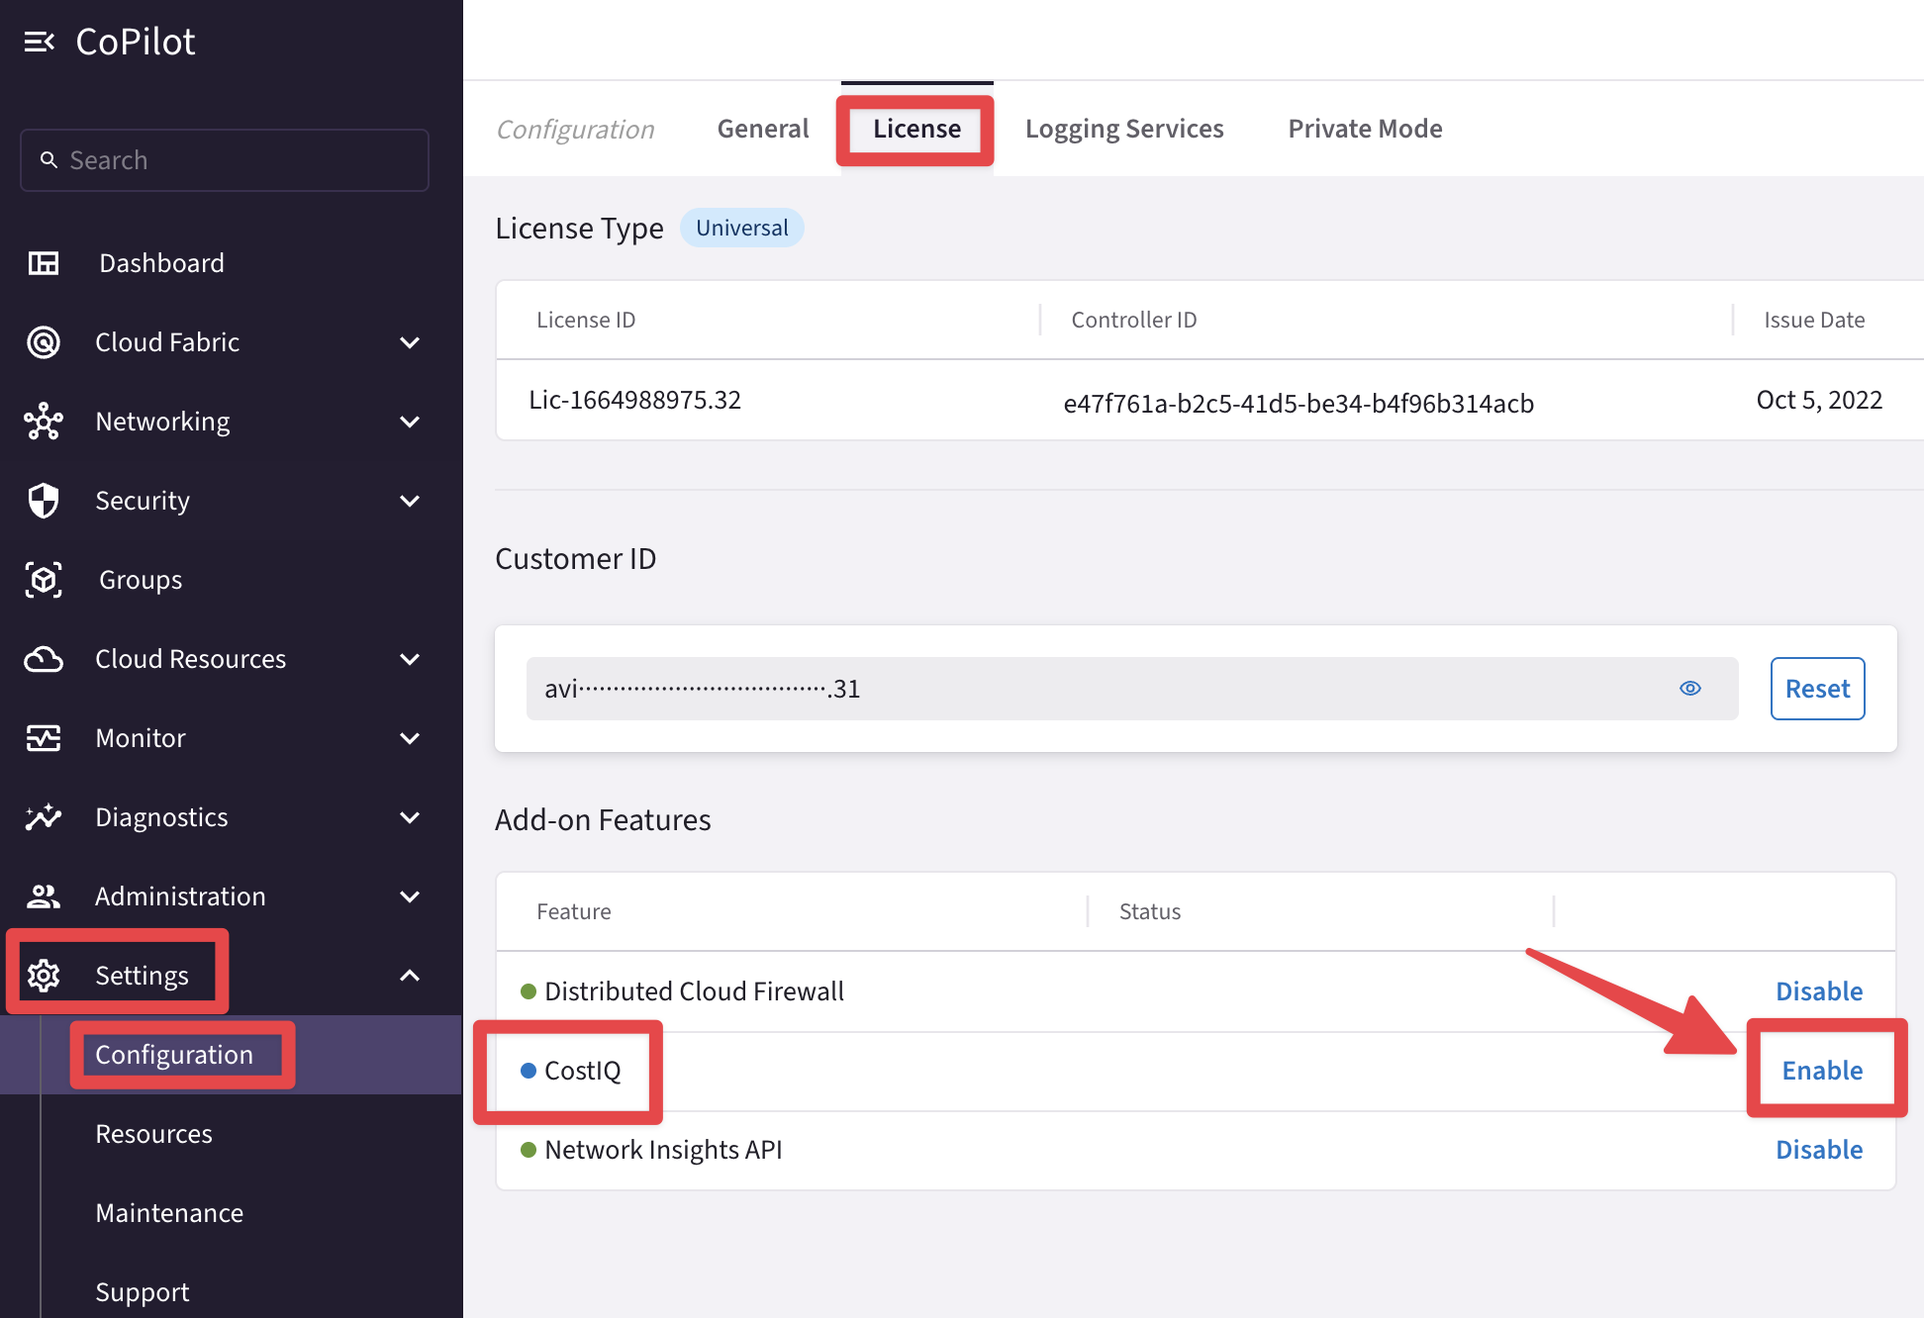
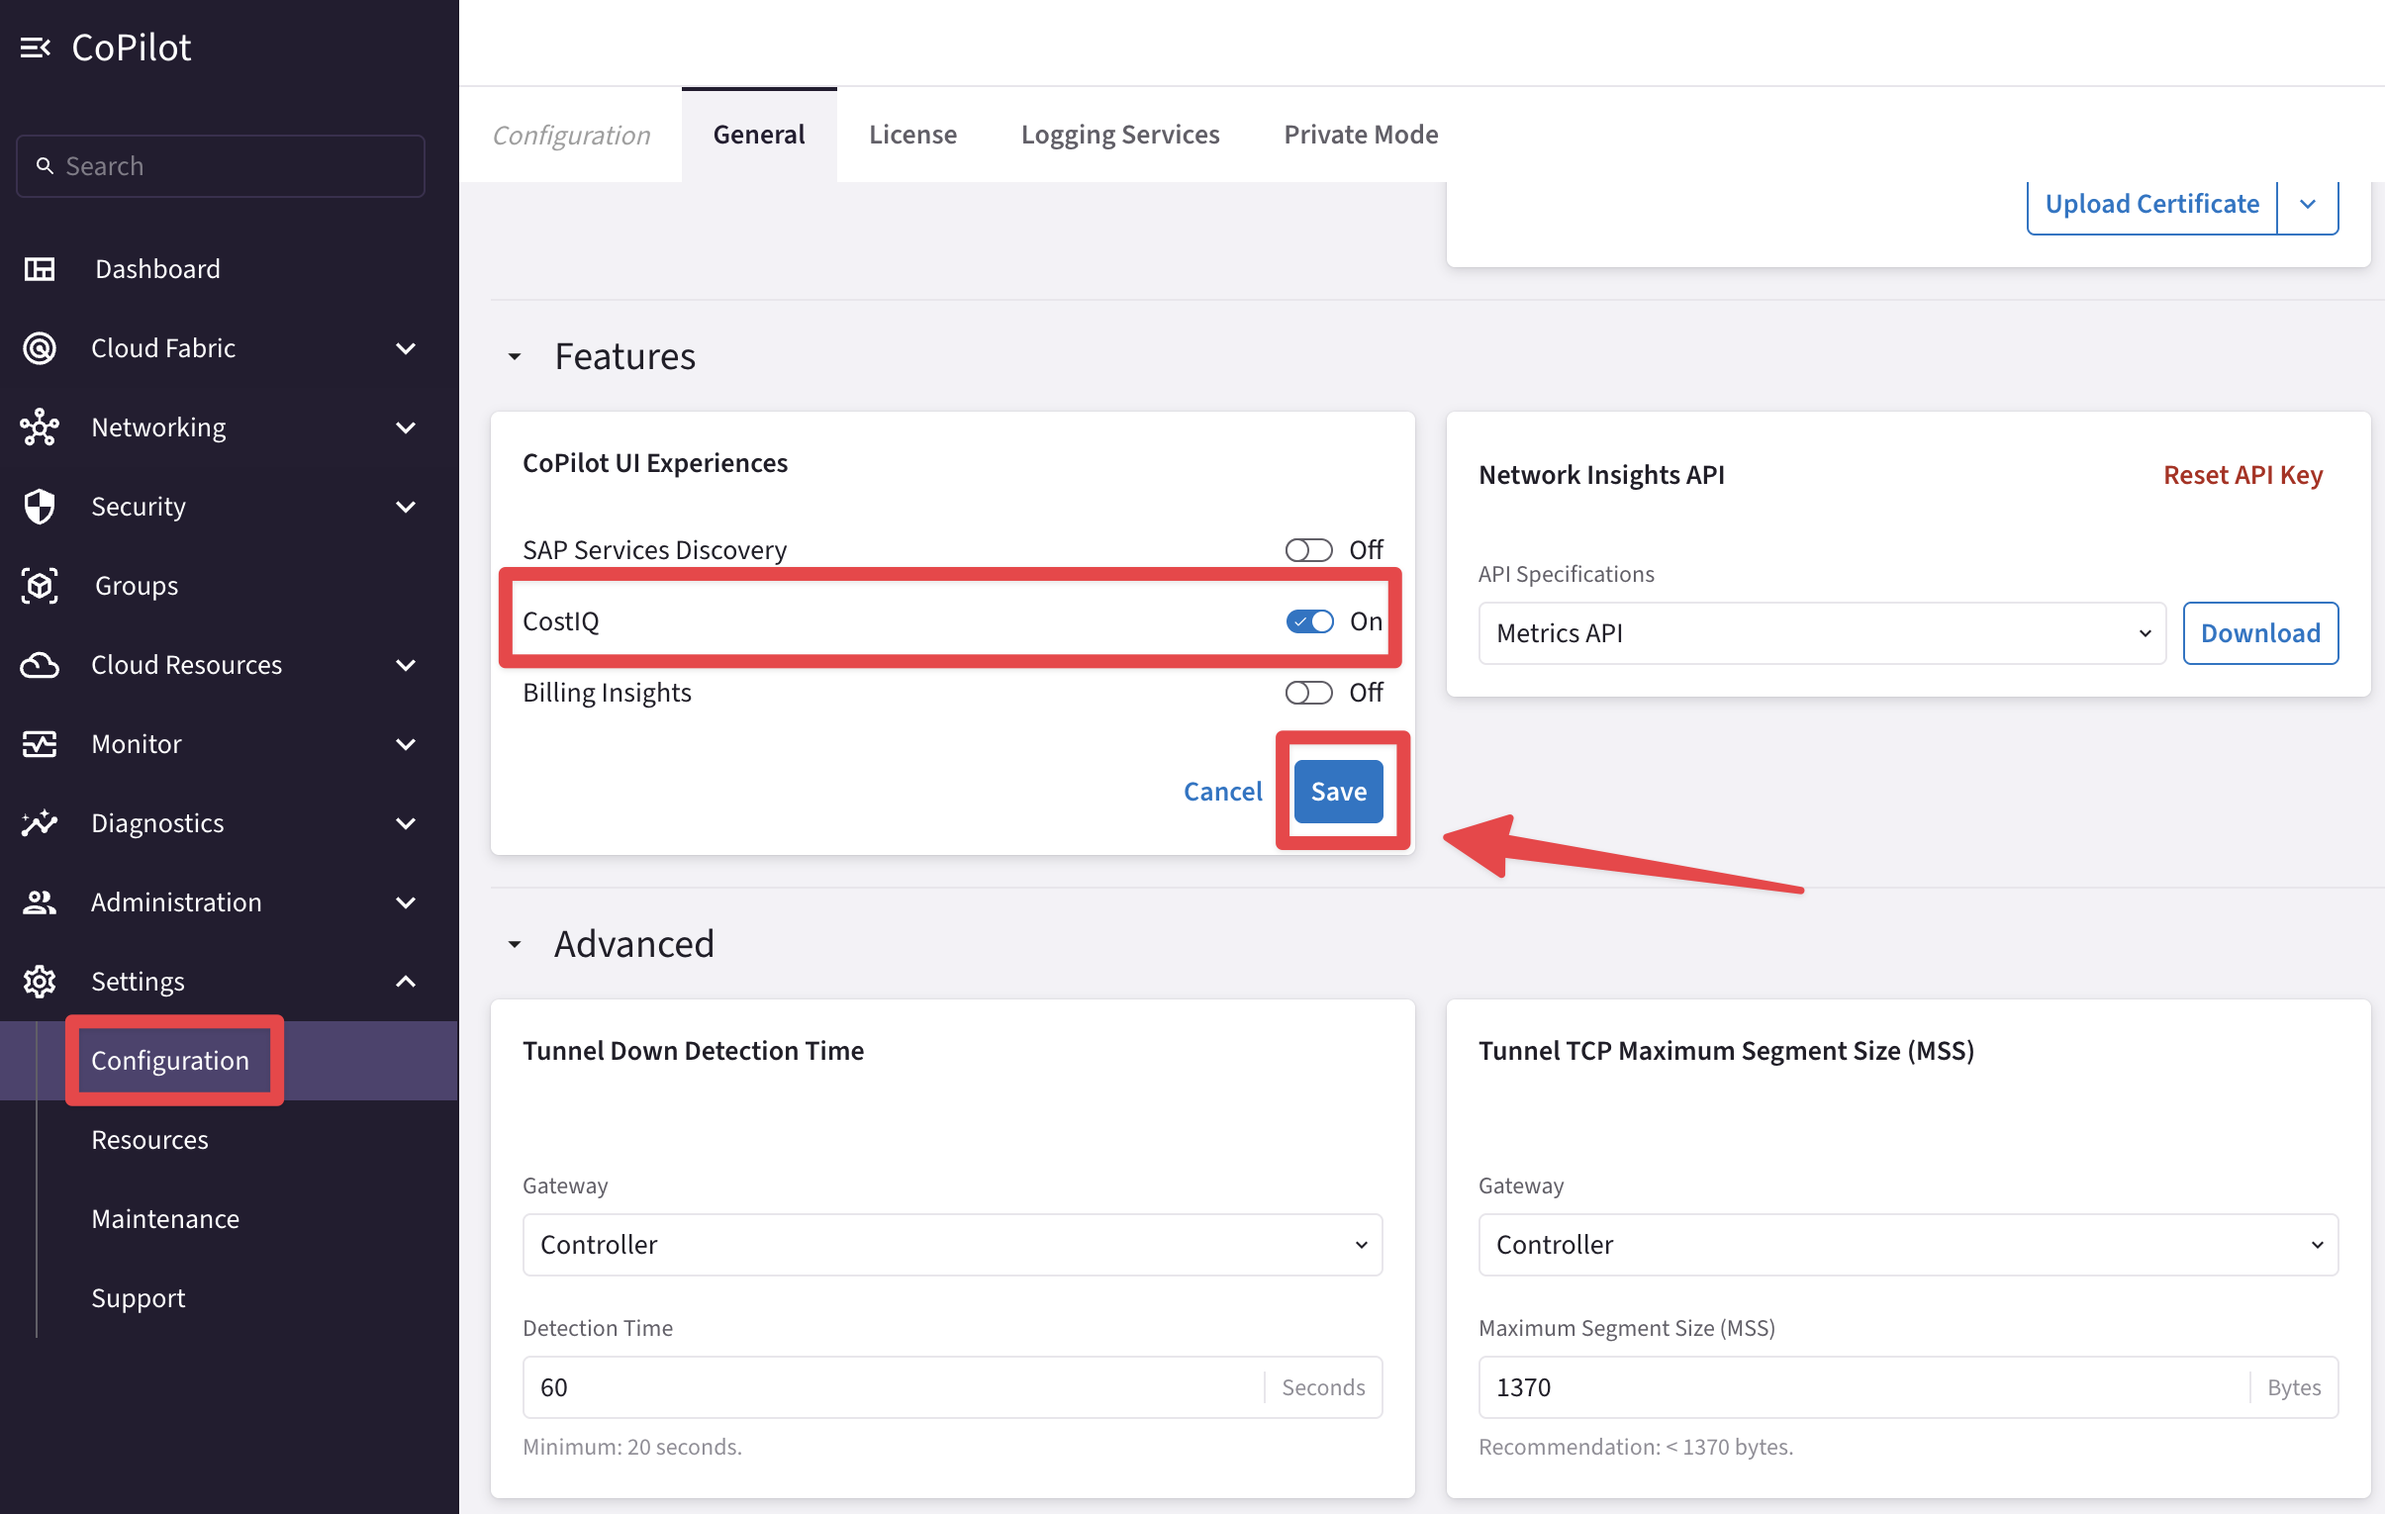
update for pro

diff --git a/ace_pro/docs/lab10.md b/ace_pro/docs/lab10.md
@@ -30,7 +30,7 @@ The CostIQ feature provides detailed traffic distribution analysis for your cost
 
 ### 2.1 Enable CostIQ
 
-Go to **Copilot > Settings > Configuration > License**, identify the **CostIQ** _Add-on Feature_ and click on the `"Enable"` link.
+Navigate to **Copilot > Settings > Configuration > General**. Locate the widget named _Features_ and enable the `"CostIQ"` option. Remember to click **Save** to apply your changes.
 
 ```{figure} images/lab9-costiq123.png
 ---
